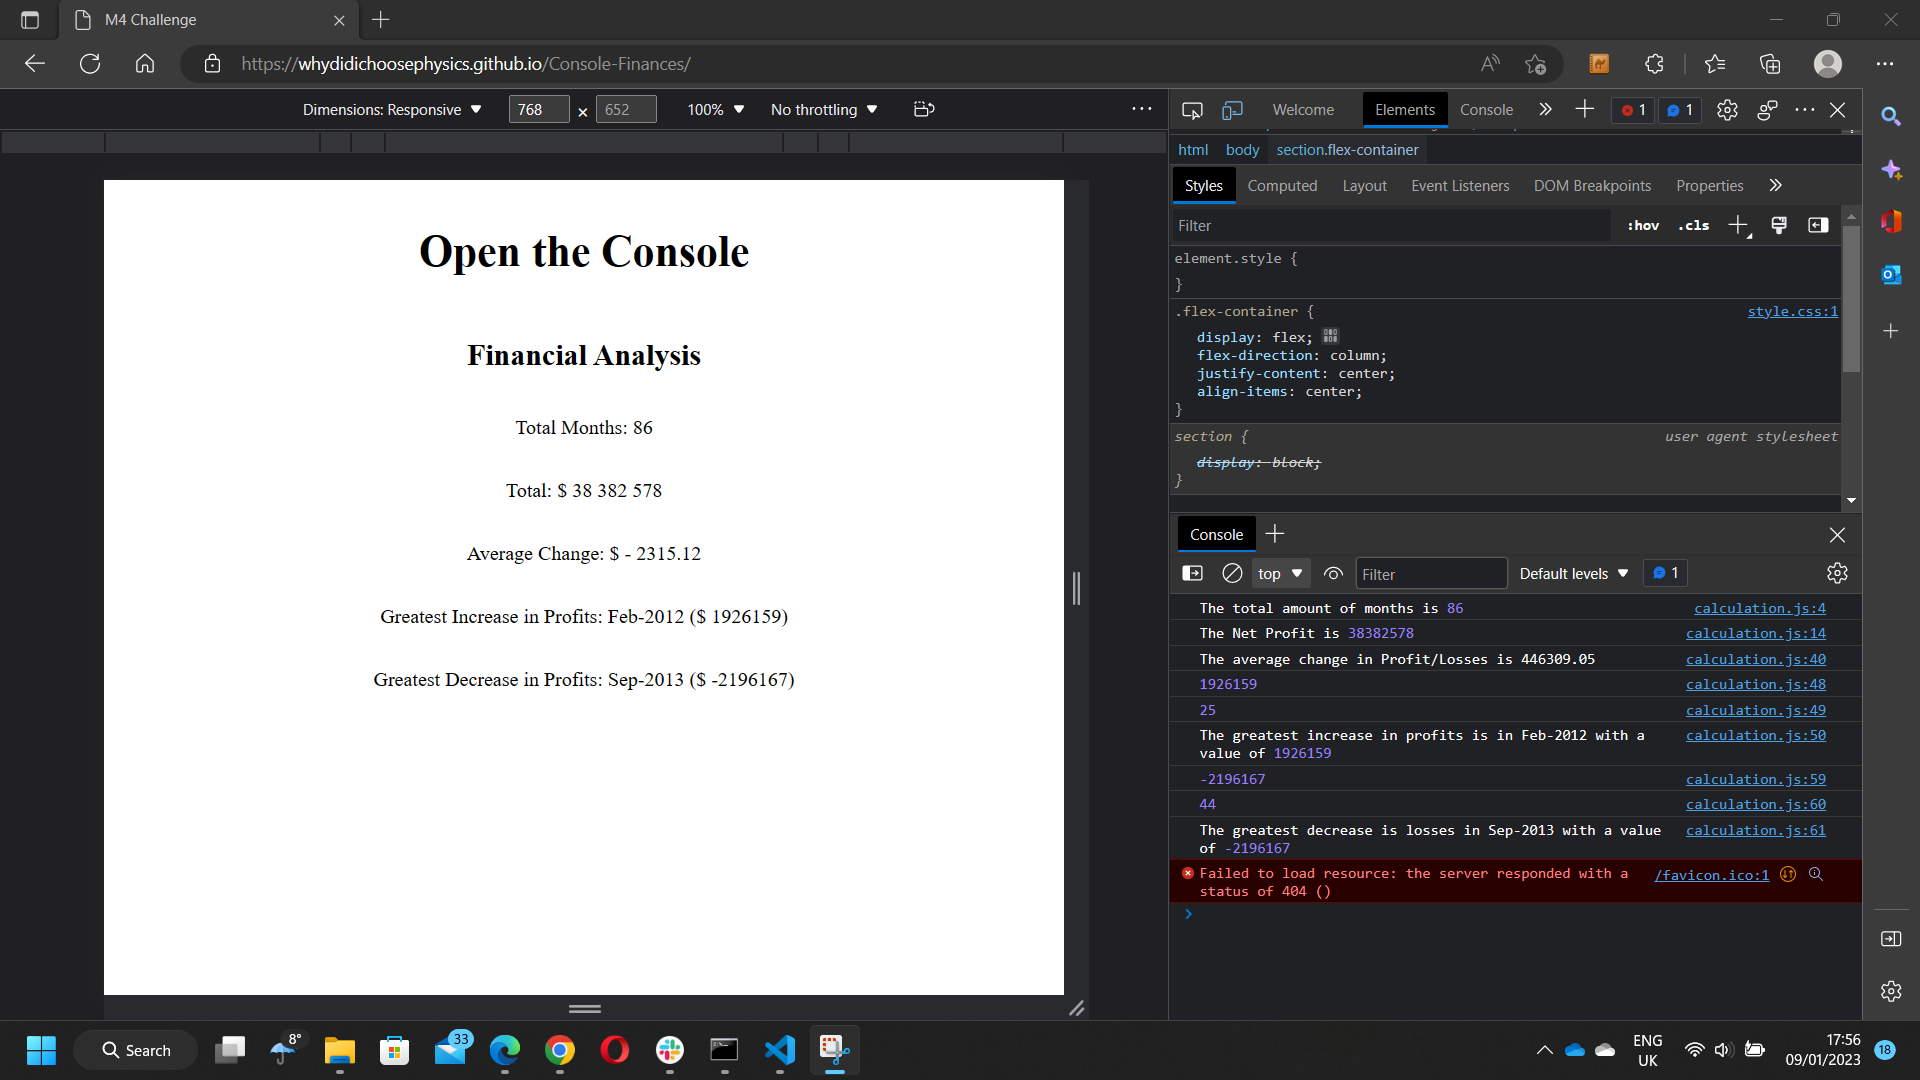
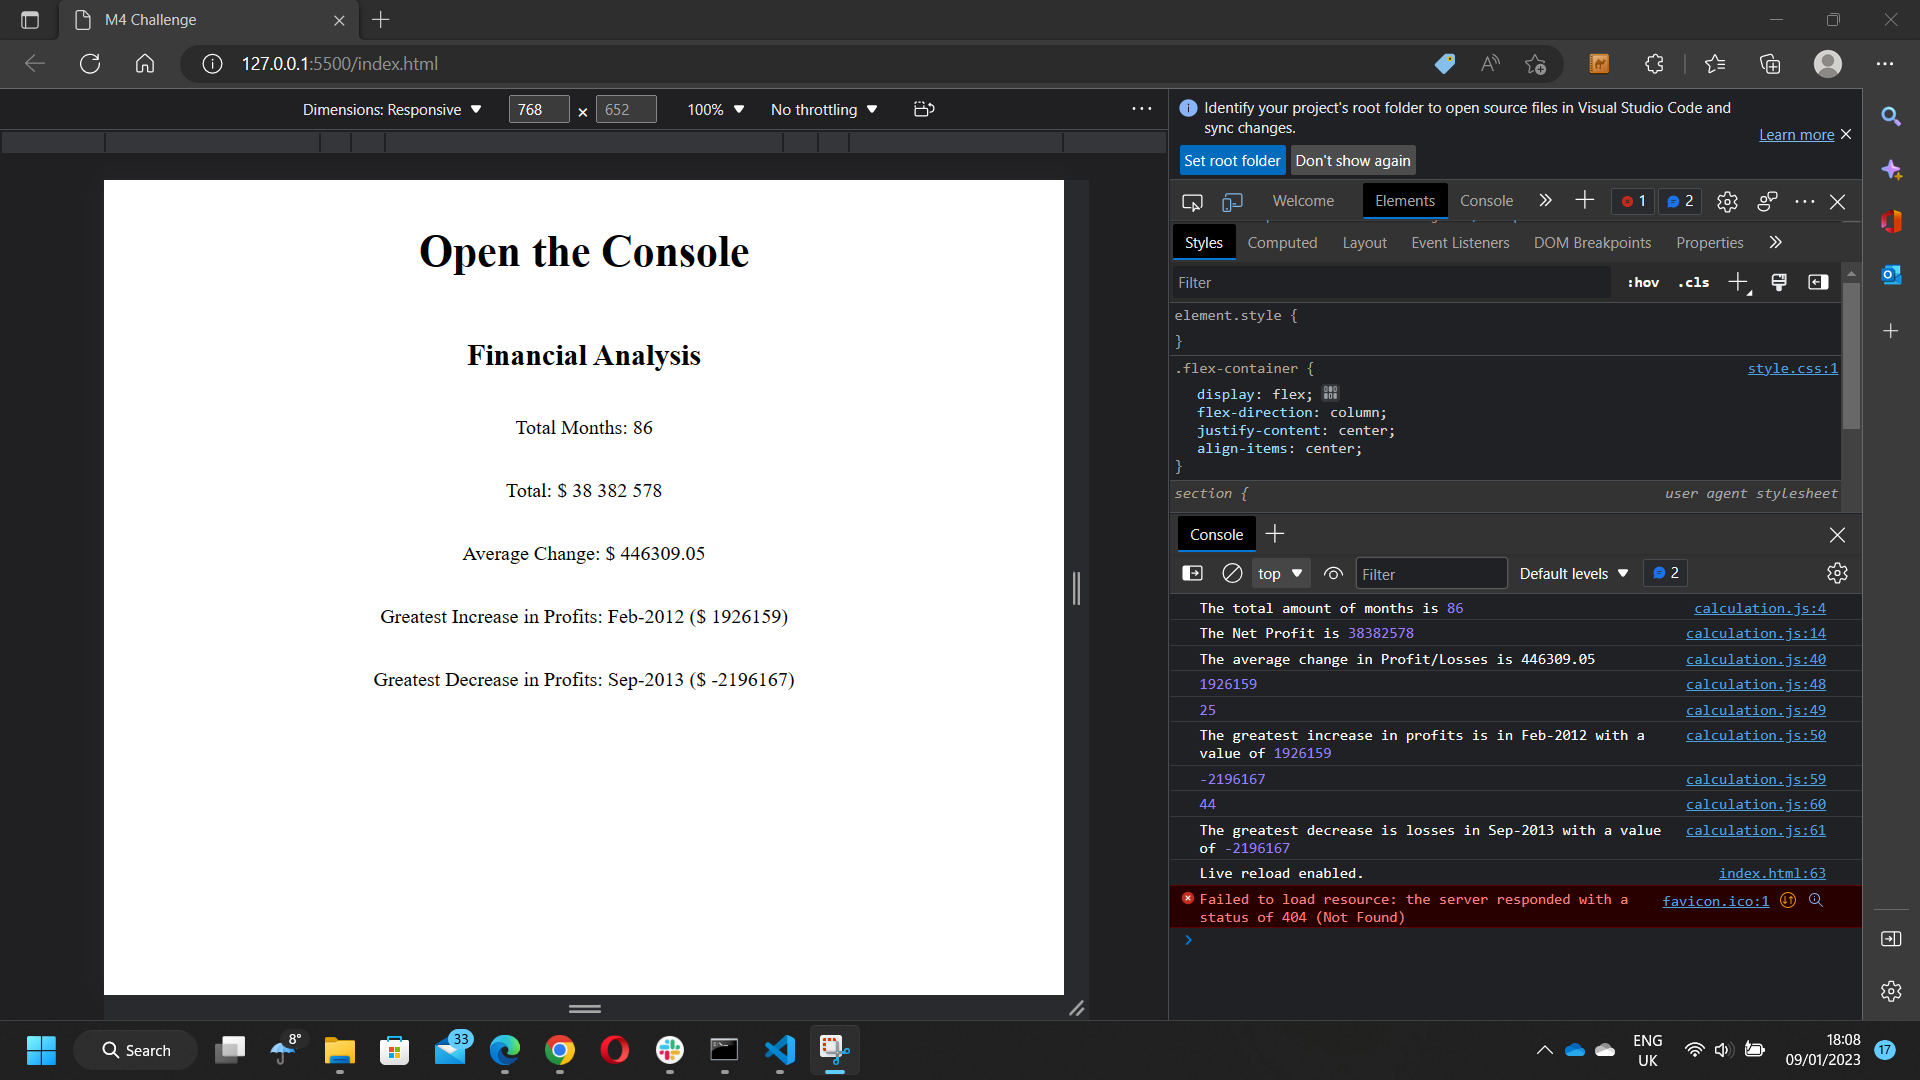
Changed numerical value and screenshot

diff --git a/index.html b/index.html
@@ -26,7 +26,7 @@
     <p>Total Months: 86</p>
 
     <p>Total: $ 38 382 578</p>
-    <p>Average  Change: $ - 2315.12</p>
+    <p>Average  Change: $ 446309.05</p>
     <p>Greatest Increase in Profits: Feb-2012 ($ 1926159)</p>
     <p>Greatest Decrease in Profits: Sep-2013 ($ -2196167)</p>
 

diff --git a/README.md b/README.md
@@ -16,7 +16,8 @@ using a for loop
 a for loop, nesting an if statement was used to calculate the values
 
 - The average was calculated by summing the values in the new array using the same for loop as the first one,
-and the value was divided by the length of the array (including th efirst month)
+and the value was divided by the length of the array (including the first month)
+  - Average change: 446309.05
 
 - For the Greatest Increase in Profits:
 "Math.max.apply(Math, changeInProfit)" was used to find the maximum value in the array and
